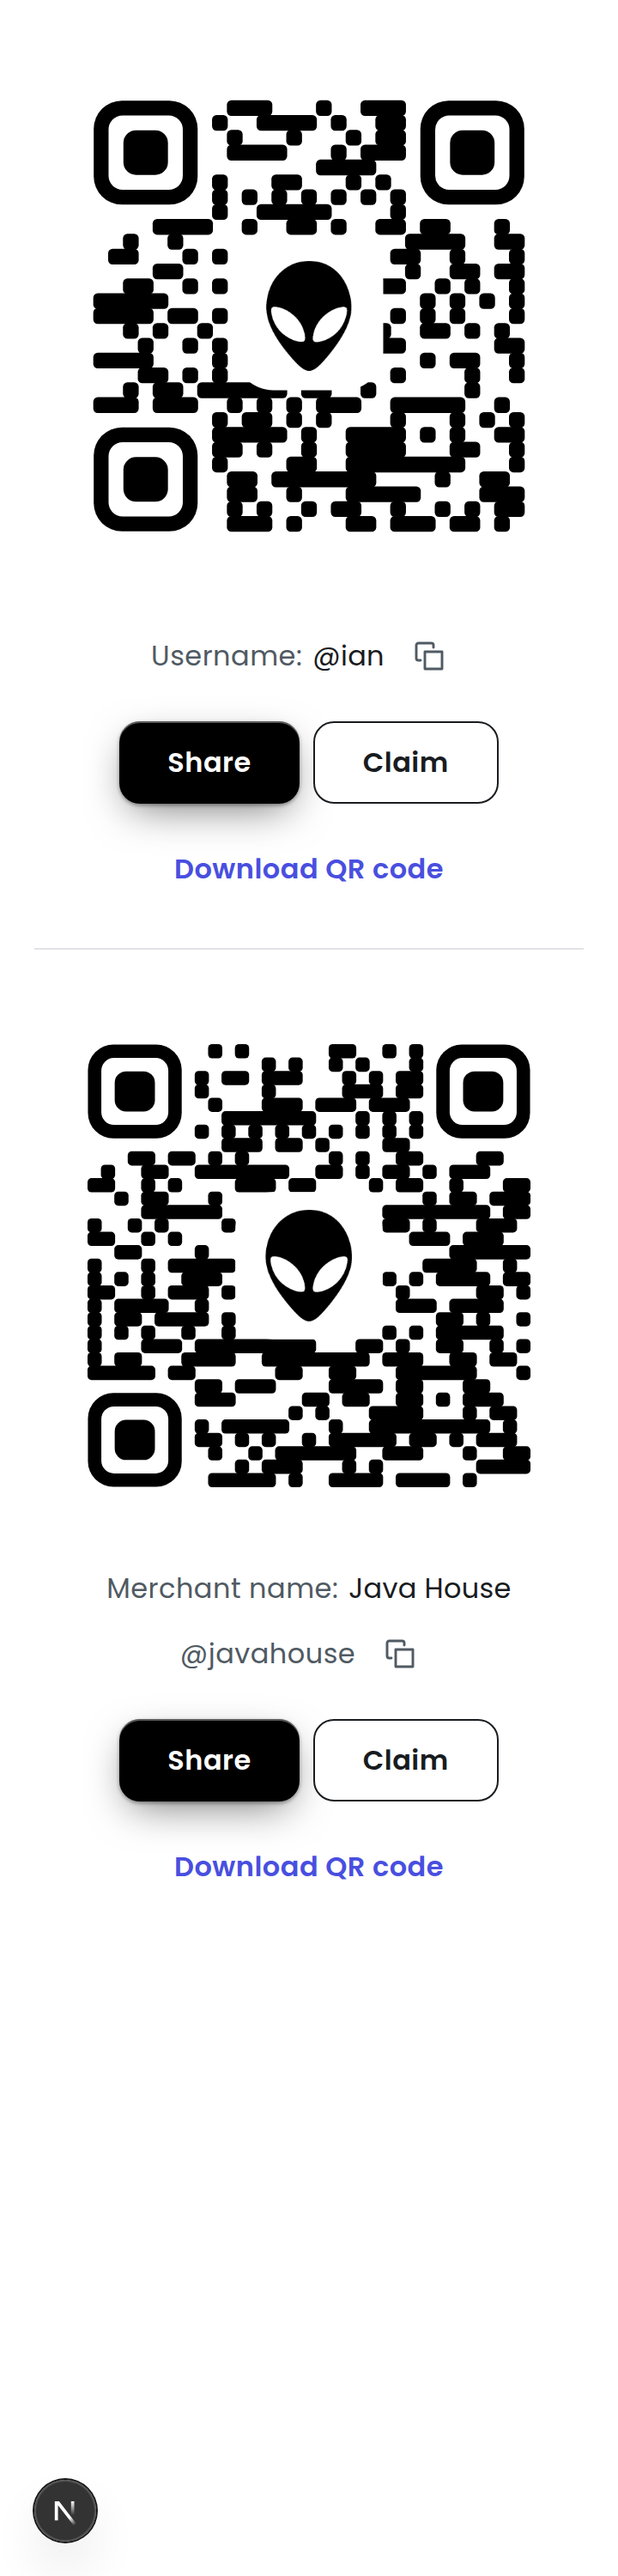
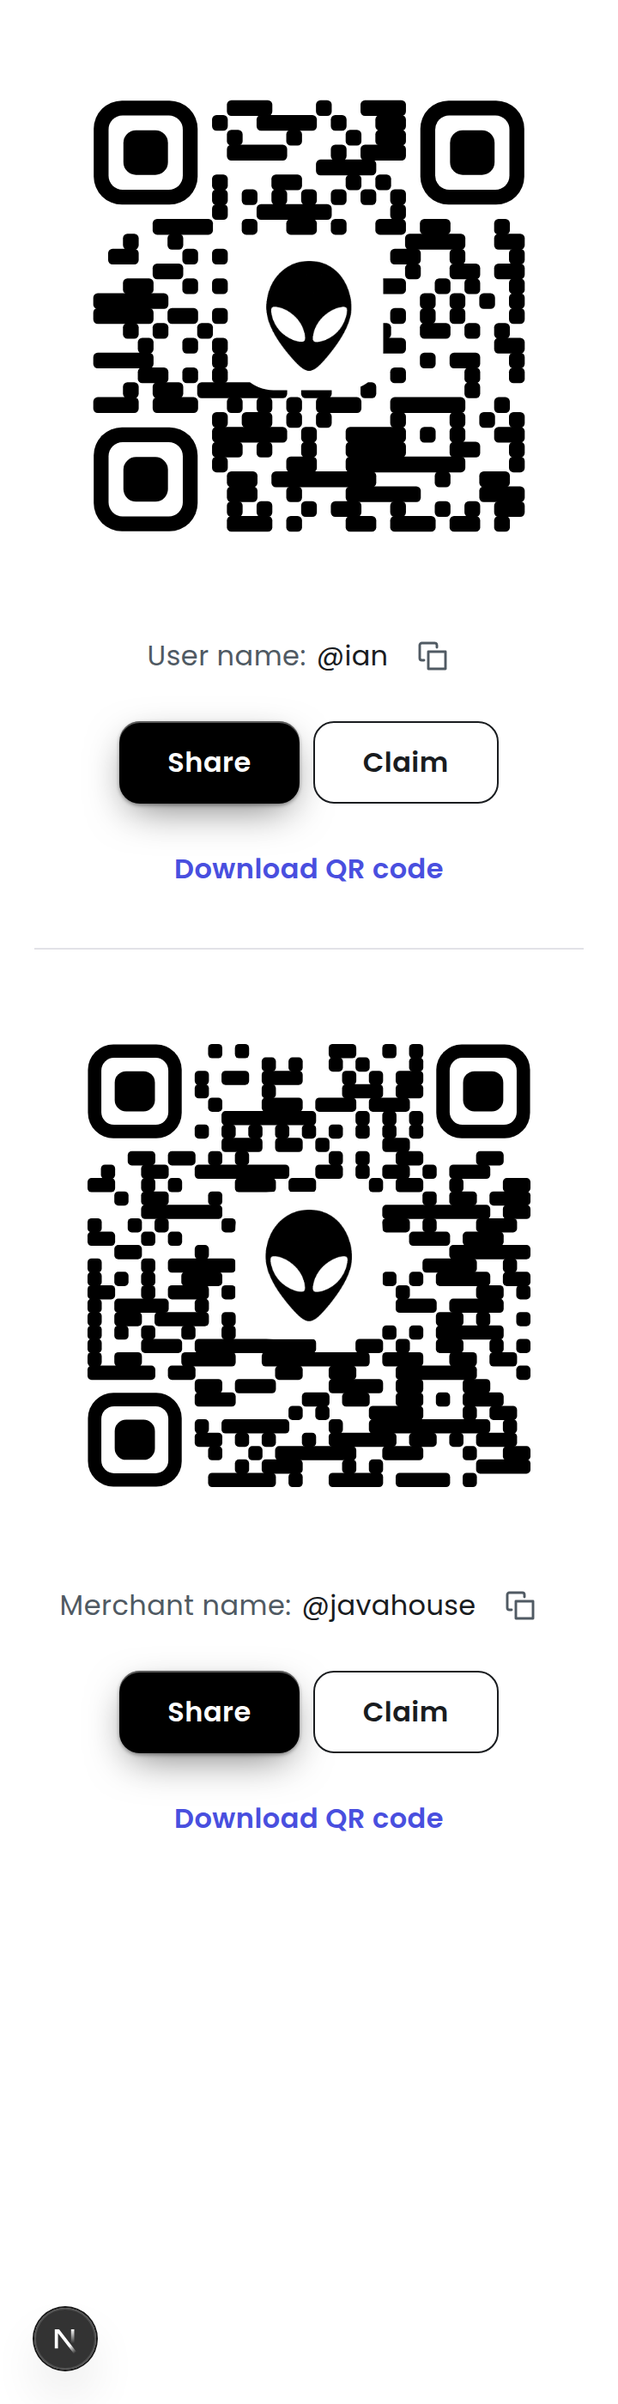
fix(receive): both rows print the handle, and the label is User name
Merchant name: @javahouse, not 'Java House @javahouse'. Both halves now
print the string a person pays, so the two rows are the same object at
the same length and the glyph always copies what it sits under. The
business name still travels as the code's accessible name and the share
title, which is where a customer reads it after scanning.

The username label is two words, as dictated. The switch above it, the
accessible names and the error lines keep the house 'username'; same
words out loud. The row drops the extra handle slot and its wrap branch
with it.

diff --git a/web/components/receive/ReceiveHalf.tsx b/web/components/receive/ReceiveHalf.tsx
@@ -41,9 +41,8 @@ function shareLabel(state: ShareState): string {
  *
  * The copy control sits AT the end of the row it acts on, bare, with no well (#549:
  * `IconButton`'s `well="none"`), so the glyph is a footnote to the value instead of a
- * disc competing with the code. It follows the LAST string in the row, which on the
- * merchant half is the handle: a control copies what it sits under, never something the
- * page has not printed.
+ * disc competing with the code. It follows the handle it writes: a control copies what
+ * it sits under, never something the page has not printed.
  *
  * THE ACTIONS ARE ONE ROW OF TWO, WITH ONE LINK UNDER IT. Share wears the fill, because
  * handing the code over is what this page is FOR and the screen gets exactly one filled
@@ -72,38 +71,20 @@ export function ReceiveHalf({ plate, name, share, download, claim }: ReceiveHalf
     <div className="flex w-full flex-col items-center gap-4">
       {plate}
 
-      {/* THE ROW IS THREE UNBREAKABLE SLOTS, not one text flow and not four equal flex items.
-          A flex row of label, value, handle and glyph pushed the 44px glyph onto a line of its
-          own under the merchant half at 390px; one inline text flow broke the BUSINESS NAME
-          instead (`Merchant name: Java` / `House @javahouse`). So the label is its own slot,
-          the value is its own slot, and the handle travels welded to the glyph it belongs to.
-          Flex-wrap then breaks between SLOTS: at 390px the merchant row reads
-          `Merchant name: Java House` / `@javahouse <glyph>`, and a name too long for the line
-          moves whole rather than splitting mid-word. */}
+      {/* TWO SLOTS: the label, then the handle welded to the glyph it belongs to. A flex row
+          of separate items once pushed the 44px glyph onto a line of its own at 390px, and a
+          single inline text flow broke the value mid-word instead; welding the string to its
+          control leaves exactly one break opportunity, before the handle. */}
       <p className="flex max-w-full flex-wrap items-center justify-center gap-x-1.5 gap-y-1">
         <Text variant="body" as="span" color="secondary" className="whitespace-nowrap">
           {name.label}:
         </Text>
-        {name.handle ? (
-          <>
-            <Text variant="body-medium" as="span" className="min-w-0 break-words">
-              {name.value}
-            </Text>
-            <span className="flex items-center gap-1 whitespace-nowrap">
-              <Text variant="body" as="span" color="secondary">
-                @{name.handle}
-              </Text>
-              {glyph}
-            </span>
-          </>
-        ) : (
-          <span className="flex items-center gap-1 whitespace-nowrap">
-            <Text variant="body-medium" as="span">
-              {name.value}
-            </Text>
-            {glyph}
-          </span>
-        )}
+        <span className="flex items-center gap-1 whitespace-nowrap">
+          <Text variant="body-medium" as="span">
+            {name.value}
+          </Text>
+          {glyph}
+        </span>
       </p>
 
       {share || claim ? (

diff --git a/web/components/receive/receive.constants.ts b/web/components/receive/receive.constants.ts
@@ -23,10 +23,13 @@ export const RECEIVE_COPY = {
   /**
    * The row labels (#549). The page shows one of two strings and, until these existed,
    * nothing on it said which. The switch above names the choice; these name the VALUE,
-   * which is what a reader arriving mid-page needs, and they are the same words the
-   * switch uses so the two cannot drift.
+   * which is what a reader arriving mid-page needs.
+   *
+   * `User name` is spelled as the owner dictated it, in two words, while the switch and
+   * the accessible names still say `username` in one: the label is his copy, the rest is
+   * the house style, and the two are the same words out loud.
    */
-  usernameLabel: 'Username',
+  usernameLabel: 'User name',
   merchantNameLabel: 'Merchant name',
   /** The bare control's accessible name. The glyph alone announces nothing. */
   copyLabel: 'Copy your username',
@@ -35,14 +38,13 @@ export const RECEIVE_COPY = {
   copyFailed: 'Could not copy. Select your username above and copy it.',
 
   /**
-   * The merchant half's copy control (#549). It writes the HANDLE, not the business name:
-   * the name is what the customer reads and the handle is what the code, the link and the
-   * saved file are built from. The row prints both, so the control copies something the
-   * reader can see.
+   * The merchant half's copy control (#549). Both halves print a HANDLE and copy it, so the
+   * words name the same string the row's label names rather than the handle-vs-name split
+   * the row used to explain.
    */
-  merchantCopyLabel: 'Copy your merchant username',
-  merchantCopyConfirmed: 'Merchant username copied.',
-  merchantCopyFailed: 'Could not copy. Select your merchant username above and copy it.',
+  merchantCopyLabel: 'Copy your merchant name',
+  merchantCopyConfirmed: 'Merchant name copied.',
+  merchantCopyFailed: 'Could not copy. Select your merchant name above and copy it.',
 
   /**
    * The address block (#419).

diff --git a/web/components/receive/ReceiveHalf.types.ts b/web/components/receive/ReceiveHalf.types.ts
@@ -33,24 +33,22 @@ export interface ReceiveHalfCopy {
  * that takes it.
  *
  * The label is not decoration. This page shows one of two strings depending on which half
- * is on screen, and they are different kinds of fact — a username another Seti account
- * types, and the name a customer reads at a counter. Unlabelled, `@ian` and `Java House`
+ * is on screen, and they are different kinds of fact — a user name another Seti account
+ * types, and the name a customer pays at a counter. Unlabelled, `@ian` and `@javahouse`
  * sat under identical codes and nothing on the page said which one the reader was
  * looking at.
+ *
+ * BOTH HALVES PRINT A HANDLE, so the row has one shape: a label, a handle, the glyph.
+ * The merchant row briefly printed its business name plus the handle after it, which made
+ * the two halves differ in length and in kind; the owner's call is that the string a
+ * person pays is the one worth giving them, and the business name stays where a customer
+ * reads it — the code's own title and the share sheet.
  */
 export interface ReceiveHalfName {
-  /** The word the row calls the string by: `Username`, `Merchant name`. */
+  /** The word the row calls the string by: `User name`, `Merchant name`. */
   label: string;
-  /** The string as it is printed: `@ian`, `Java House`. */
+  /** The handle as it is printed: `@ian`, `@javahouse`. Never the business name. */
   value: string;
-  /**
-   * The account's handle, when the printed value is not it.
-   *
-   * The merchant half prints `Java House` while every string it hands out — the code, the
-   * link, the saved file — is built from `javahouse`. Printing the handle in the row is
-   * what makes the copy control honest: it writes the string the reader can see.
-   */
-  handle?: string;
   /** Absent means this half hands nothing over by hand — a counter code is printed. */
   copy?: ReceiveHalfCopy;
 }

diff --git a/web/components/receive/ReceiveMerchantHalf.tsx b/web/components/receive/ReceiveMerchantHalf.tsx
@@ -20,13 +20,12 @@ import type { ReceiveMerchantHalfProps } from './ReceiveMerchantHalf.types';
  * `seti.live/m/Java House`, so the split is stated here rather than left to each caller
  * to remember.
  *
- * THE ROW PRINTS BOTH, and the control copies the handle (#549). This half used to offer
- * no copy at all: the string on screen was the name and every string it hands out was
- * built from the handle, so a control under `Java House` would have written something the
- * reader could not see. The row now reads `Merchant name: Java House @javahouse`, which
- * is the two facts the business actually holds — and the glyph sits after the handle it
- * writes, so the page never copies a string it has not printed. The two halves therefore
- * share one shape: a label, the string, the bare glyph.
+ * THE ROW PRINTS THE HANDLE (#549), not the business name. The owner's call, and it is
+ * the consistent one: both halves print the string a person actually pays, and the glyph
+ * after it copies what it sits under. `Java House` has not gone anywhere — it is still
+ * the code's own accessible name (`seti.live/m/<handle> at your counter`) and the share
+ * sheet's title, which is where a customer reads it after scanning. What left is a row
+ * that printed a name no copy control could honestly act on.
  *
  * The link row is gone, and with it the sentence that explained it. The code still
  * encodes the business link (`seti.live/m/<handle>`) so a customer's camera opens the
@@ -46,8 +45,7 @@ export function ReceiveMerchantHalf({ name, handle }: ReceiveMerchantHalfProps) 
       plate={<QrPlate value={link} title={RECEIVE_COPY.merchantQrTitle(name)} />}
       name={{
         label: RECEIVE_COPY.merchantNameLabel,
-        value: name,
-        handle,
+        value: `@${handle}`,
         copy: {
           value: handle,
           label: RECEIVE_COPY.merchantCopyLabel,
